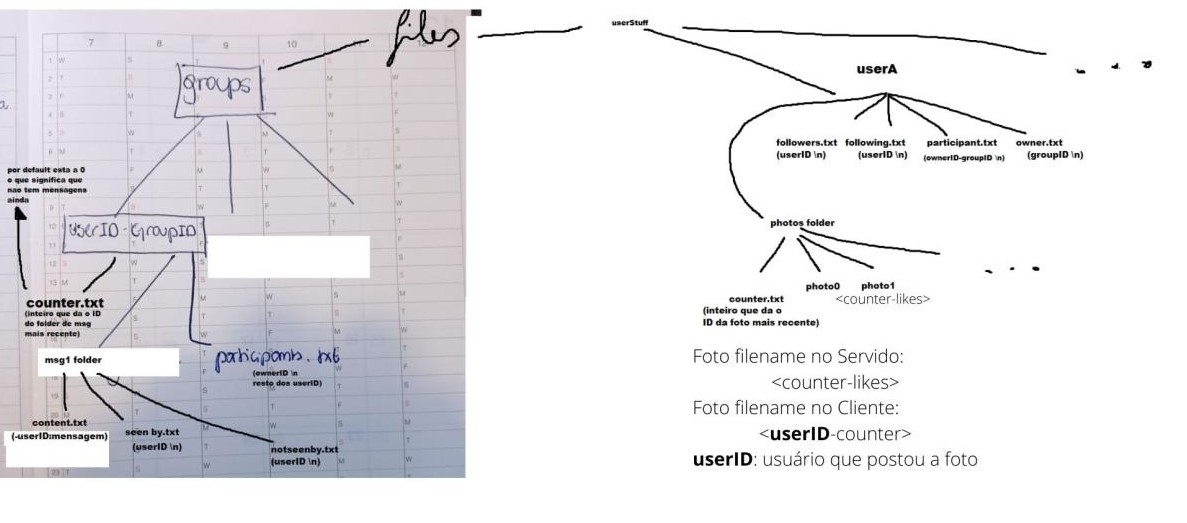
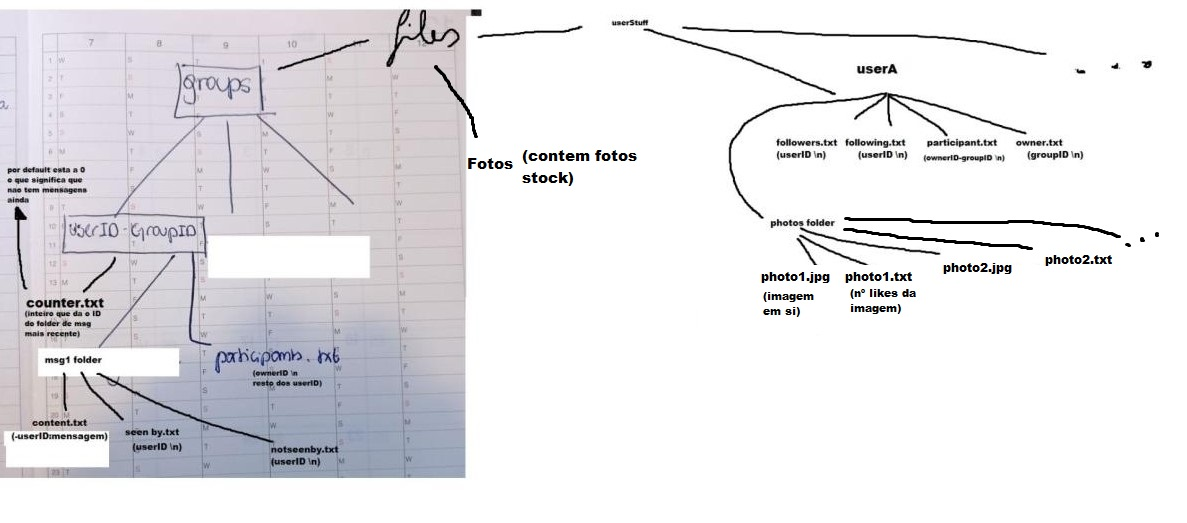
wall feitas mudanças ainda nao completo

diff --git a/SeiTchiz/src/SeiTchizServer.java b/SeiTchiz/src/SeiTchizServer.java
@@ -177,9 +177,6 @@ public class SeiTchizServer {
 			File photosFolder = new File("../files/userStuff/" + clientID + "/photos");
 			photosFolder.mkdir();
 
-			File counterPhotosFile = new File("../files/userStuff/" + clientID + "/photos/counter.txt");
-			counterPhotosFile.createNewFile();
-
 			System.out.println("Dados e ficheiros base do utilizador adicionados ao servidor");
 			return 0;
 		} catch (IOException e) {
@@ -1692,31 +1689,16 @@ public class SeiTchizServer {
 		 * @param nPhotos int represntando o número de fotos mais recentes a serão retornadas
 		 * @return TODO
 		 */
-		private ArrayList wall(String senderID, int nPhotos) {
-
-			// 0.Criar um ArrayList de Strings
-			// 		A estrutura do ArrayList será:
-			// 			[<userID-counter>,<likes>,<filepath to picture>,...]
-			// 			número total de fotos será obtido ao chamar size()/3 no ArrayList
-			// 1.Obter o valor do counter global
-			// 2.Criar uma lista de usuários que o utilizador segue
-			// 3.Acessar os diretórios das fotos de cada usuário
-			// 	 3.1.Obter o valor do counter atual
-			//   3.2.Fotos a serem devolvidas estarão no intervalo /userID-[counter,counter-1,...,counter-nPhotos+1]/
-			//  	3.2.1.Obter número de likes na foto atual
-			// 		3.2.2.Colocar <userID-counter> no ArrayList
-			// 		3.2.3.Colocar <likes> no ArrayList
-			// 		3.2.4.Colocar <filepath to picture> no ArrayList
-
+		public ArrayList wall(String senderID, int nPhotos) {
 			// CODIGOS DE RESPOSTA ESPECIAL:
-			// 1 = senderID não segue nenhum usuário
-			// Entrada <userID-NOPHOTO> no ArrayList retorno = userID não postou nenhuma foto
+			// "1" = senderID não segue nenhum usuário
+			// "2" = todos os usuarios que o senderID segue nao tem fotos
 
+			//inicializar o arraylist que sera devolvido e array a filtrar
+			ArrayList<String> retorno = new ArrayList();
+			ArrayList<String> arrayComTudo = new ArrayList();
 
-			// 0.
-			ArrayList retorno = new ArrayList();
-
-			//1.
+			//obter o counter global de fotos
 			int counterGlobal = 0;
 			File gpcFile = new File("../files/serverStuff/globalPhotoCounter.txt");
 			try(Scanner scGPC = new Scanner(gpcFile);) {
@@ -1727,10 +1709,9 @@ public class SeiTchizServer {
 				e.printStackTrace();
 			}
 			
-			// 1.
+			//ter todos os users que o senderID segue num arraylist
 			File currentUserFollowingFile = new File("../files/userStuff/" + senderID + "/following.txt");
 			ArrayList following = new ArrayList();
-
 			try (Scanner scCurrentUserFollowing = new Scanner(currentUserFollowingFile)) {
 				while (scCurrentUserFollowing.hasNextLine()) {
 					String line = scCurrentUserFollowing.nextLine();
@@ -1742,77 +1723,79 @@ public class SeiTchizServer {
 				System.exit(-1);
 			}
 
-			// 2.
-			// Verificar se o senderID não segue nenhum usuário
-			if(following.size() == 0) return retorno.add(1);
-			
-			for(int i = 0; i < following.size(); i++) {
-				// 2.1.
-				
-				// número de photos do user following.get(i)
-				File currentUserPhotoFolder = new File("../files/userStuff/" + following.get(i) + "/photos");
-				FileFilter filter = new FileFilter() {
-					public boolean accept(File f) {
-						return f.getName().endsWith("jpg");
-					}	
-				};
-				File[] photoFiles = currentUserPhotoFolder.listFiles(filter);
-				int nPhotosCurrentUser = photoFiles.length;
+			//verificar se o senderID não segue nenhum usuário
+			if(following.size() == 0) {
+				retorno.add("1");
+			} else {
+				//percorrer cada usuario que senderID segue
+				for(int i = 0; i < following.size(); i++) {
 
-				// Verificar se photos == 0
-				if(nPhotosCurrentUser > 0) {
-					// 2.2.
-					for(int j = nPhotosCurrentUser; j > nPhotosCurrentUser - nPhotos; j--) {
-						if(j < 0) break;
-						int likes = 0;
-						// Aplicar filenamefilter para obter o ficheiro da photo com nome que começa com j	
-						// Obter o nome do ficheiro
-						// Fazer um split a partir do "-"
-						// Obter número de likes
-						// Fazer add ao retorno de:
-						// 	following.get(i) + "-" + j <Indentificador da photo no formato userID-counter>
-						//  likes.toString()
-						//  "../files/userStuff/" + following.get(i) + "/nPhotosCurrentUser/" + <photofilename> : filepath do ficheiro da foto 
-						File userFollowed = new File("../files/userStuff/" + following.get(i) + "/photos/counter.txt");
-						// int nPhotosCurrentUser = 0;
-						// try (Scanner scFollowing = new Scanner(userFollowed)) {
-						// 	nPhotosCurrentUser = Integer.parseInt(scFollowing.nextLine());
-						// 	scFollowing.close();
-						// } catch (Exception e) {
-						// 	e.printStackTrace();
-						// 	System.exit(-1);
-						// }
-		
+					//obter numero de photos do user following.get(i)
+					File currentUserPhotoFolder = new File("../files/userStuff/" + following.get(i) + "/photos");
+					FileFilter filterPhotos = new FileFilter() {
+						public boolean accept(File f) {
+							//aceitam se so fotos nos formatos jpg e png
+							return f.getName().endsWith("jpg") || f.getName().endsWith("png");
+						}	
+					};
+
+					File[] photoFiles = currentUserPhotoFolder.listFiles(filterPhotos);
+					int nPhotosCurrentUser = photoFiles.length;
 	
+					// se houver fotos no folder
+					if(nPhotosCurrentUser > 0) {
+						//percorrer todas as fotos do currentUser e colocar em arrayComTudo: photoID, numero de likes, photoPath
+						for(int j = 0; j < nPhotosCurrentUser; j++) {
+							//add photoID
+							String[] aux = photoFiles[i].getName().split(".");
+							arrayComTudo.add(aux[0]);
+
+							//add numero de likes
+							File likeFile = new File("../files/userStuff/" + following.get(i) + "/photos/" + aux[0] + ".txt");
+							try(Scanner scLike = new Scanner(likeFile);) {
+								if(scLike.hasNextLine()) {
+									arrayComTudo.add(scLike.nextLine());
+								}
+							} catch (IOException e) {
+								e.printStackTrace();
+								System.exit(-1);
+							}
+							
+							//add photoPath
+							arrayComTudo.add("../files/userStuff/" + following.get(i) + "/photos/" + photoFiles[i].getName());
+						}
 					}
-				} else {
-					retorno.add(following.get(i) + "-NOPHOTO");
 				}
-				
-			}	
 
-        //     // Caso não tenha sido encontrado o grupo nos ficheiros do senderID devolver um estado de erro
-        //     if(fileName == null) {
-        //         return null;
-        //     }
+				//se no fim de percorrer todos os users que o cliente segue e nenhum tem fotos
+				if(arrayComTudo.isEmpty()) {
+					retorno.add("2");
+				} else {
+					if(nPhotos >= (arrayComTudo.size()/3)) {
+						//se o nPhotos pedido e maior ou igual a arrayComTudo entao devolver logo arrayComTudo
+						retorno = arrayComTudo;
+					} else {
+						//caso contrario e preciso filtrar as nPhotos fotos de todas as fotos em arrayComTudo com os valores de counter mais alto
 
-        //     groupParticipants = new File("../files/groups/" + fileName + "/participants.txt");
+						for(int i = 0; i < nPhotos; i++) {
+							int highestIDNumber = 0;
+							for(int j = 0; j < arrayComTudo.size(); j += 3) {
+								//conta apenas depois do hifen (por exemplo photo-5 fica 5)
+								if(Integer.parseInt(arrayComTudo.get(j).substring(6)) > highestIDNumber) {
+									highestIDNumber = Integer.parseInt(arrayComTudo.get(j).substring(6));
+									//arrayComTudo.get(j).substring(6)
+									arrayComTudo.g
+								}
+							}
+						}
+						
 
-		// 	// 1.
-		// 	try (Scanner scParticipants = new Scanner(groupParticipants)) {
-		// 		while (scParticipants.hasNextLine()) {
-		// 			String line = scParticipants.nextLine();
-        //             ownerPaticipants.append(line + ',');
-		// 		}
-		// 		scParticipants.close();
-		// 	} catch (Exception e) {
-		// 		e.printStackTrace();
-		// 		System.exit(-1);
-		// 	}
+					}
 
-		// 	return ownerPaticipants.toString();
-        // }
+				}
+			}
 
+			return retorno;
 		}
 	}
 }

diff --git a/SeiTchiz/src/Com.java b/SeiTchiz/src/Com.java
@@ -142,11 +142,14 @@ public class Com {
 		int offset = 0;
 		byte[] byteArray = new byte[1024];
 
-		Scanner scPost = new Scanner();
-
-
-						
-		File file = new File("../files/userStuff/" + userName + "/photos/" + nomeFicheiro + "-" + TODO);
+		File gpcFile = new File("../files/serverStuff/globalPhotoCounter.txt");
+		int globalCounter = 0;
+		Scanner scGPC = new Scanner(gpcFile);
+		if(scGPC.hasNextLine()) {
+			globalCounter = Integer.parseInt(scGPC.nextLine());
+		}
+			
+		File file = new File("../files/userStuff/" + userName + "/photos/photo-" + globalCounter);
 		
 		FileOutputStream fos = new FileOutputStream(file);
 		while ((offset + 1024) < (int) tamanho) {

diff --git a/SeiTchiz/src/SeiTchiz.java b/SeiTchiz/src/SeiTchiz.java
@@ -159,8 +159,6 @@ public class SeiTchiz {
 						System.out.println(separador);
 					}
 				}
-				
-
 				break;
 				
 			case "w":

diff --git a/SeiTchiz/README.md b/SeiTchiz/README.md
@@ -23,6 +23,7 @@ UserIDs inseridos nos comandos que recebem userIDs nao devem conter espaços nem
 groupIDs inseridos nos comandos que recebem userIDs nao devem conter espaços nem dois pontos(:) nem hifens(-) nem forward slashes(/).
 
 As fotos que se podem partilhar sao apenas as que se encontram no ficheiro Fotos na root do projeto que sao todas com a extensao .jpg.
+Ou seja O argumento <photo> de post deve ser foto<1 a 4>.jpg
 
 FALTA LIMITACOES DO WALL/LIKE (SE EXISTIREM)
 
